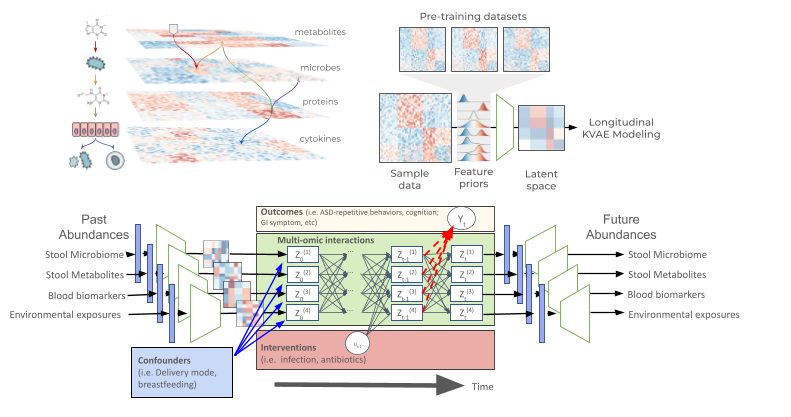
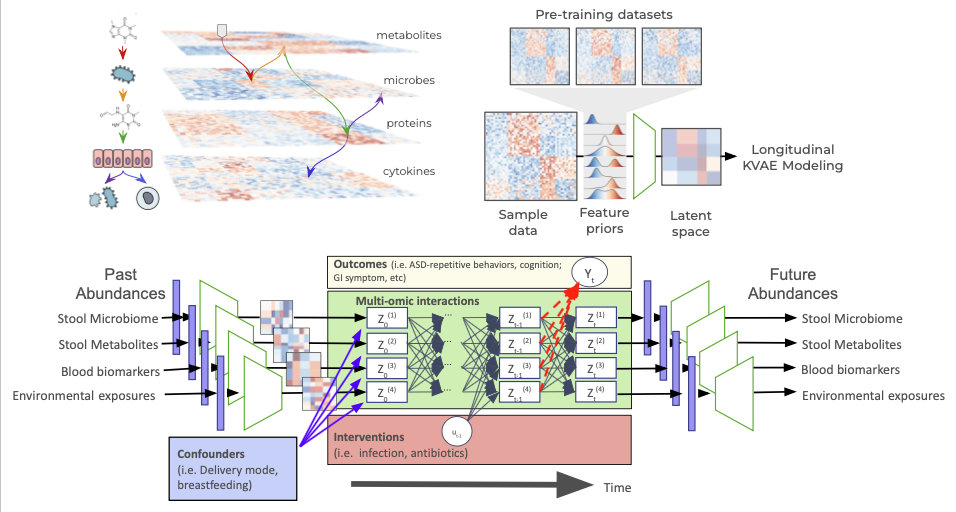
Full-width layouts for How It Works and Why Different sections
- Switch both sections from side-by-side split to full-width layout
- Add split-text class for proper font sizing (1.25rem)
- Set images to width: 100% to fill container
- Update ASD model architecture figure

diff --git a/_layouts/home-redesign.html b/_layouts/home-redesign.html
@@ -20,22 +20,18 @@ bodyClass: "page-home-new"
 
 <!-- What We're Building -->
 <section class="section-split section-light">
-  <div class="container-wide">
-    <div class="split-content">
-      <div class="split-visual">
-        <img src="/images/illustrations/how-it-works.png" alt="How it works: from home collection kit to personalized intervention" class="section-image">
-      </div>
-      <div class="split-text">
-        <h2>How It Works</h2>
-        <p>Conditions like autism affect everyone differently, which is why the same treatment can work for one person and not another. We're developing sampling kits that measure multiple aspects of your biology—your gut microbiome, metabolism, proteins, and more—to build a complete picture of what's happening inside your body.</p>
-        <p>Our AI then uses this picture to identify <strong>which subtype of a condition you have</strong> and <strong>which interventions are most likely to help your specific symptoms</strong>.</p>
-        <ul class="feature-list">
-          <li><strong>Simple sampling:</strong> Collect samples at home—no clinic visit required</li>
-          <li><strong>Complete picture:</strong> We measure across multiple biological systems, not just one</li>
-          <li><strong>Personalized insights:</strong> Understand your unique biology and what interventions may work for you</li>
-        </ul>
-      </div>
+  <div class="container-wide split-text">
+    <h2>How It Works</h2>
+    <p>Conditions like autism affect everyone differently, which is why the same treatment can work for one person and not another. We're developing sampling kits that measure multiple aspects of your biology—your gut microbiome, metabolism, proteins, and more—to build a complete picture of what's happening inside your body.</p>
+    <div style="text-align: center; margin: 3rem 0;">
+      <img src="/images/illustrations/how-it-works.png" alt="How it works: from home collection kit to personalized intervention" style="width: 100%; height: auto;">
     </div>
+    <p>Our AI then uses this picture to identify <strong>which subtype of a condition you have</strong> and <strong>which interventions are most likely to help your specific symptoms</strong>.</p>
+    <ul class="feature-list">
+      <li><strong>Simple sampling:</strong> Collect samples at home—no clinic visit required</li>
+      <li><strong>Complete picture:</strong> We measure across multiple biological systems, not just one</li>
+      <li><strong>Personalized insights:</strong> Understand your unique biology and what interventions may work for you</li>
+    </ul>
   </div>
 </section>
 
@@ -58,22 +54,18 @@ bodyClass: "page-home-new"
 
 <!-- What Makes Us Different -->
 <section class="section-split section-light">
-  <div class="container-wide">
-    <div class="split-content">
-      <div class="split-visual">
-        <img src="/images/illustrations/asd-figures.png" alt="AI model architecture for multi-omics analysis" class="section-image">
-      </div>
-      <div class="split-text">
-        <h2>Why This Approach Is Different</h2>
-        <p>Most health tests look at one thing—your DNA, or your microbiome, or a blood panel. Each gives a partial view. We combine all of them, and the result isn't just additive—it's <strong>exponentially more accurate</strong>.</p>
-        <ul class="feature-list">
-          <li><strong>Multiple biological layers, not just one:</strong> Gut microbiome, metabolites, proteins, and genetics analyzed together reveal patterns no single test can detect</li>
-          <li><strong>Changes over time, not just a snapshot:</strong> Our AI models how your biology evolves, which is critical for predicting what will help</li>
-          <li><strong>Causes, not just correlations:</strong> Most AI finds patterns that appear together. Our platform identifies which biological factors are actually <em>driving</em> symptoms—and what happens when you change them. This is what makes our predictions actionable</li>
-          <li><strong>Purpose-built technology:</strong> To make this possible, we built a new programming language from the ground up—designed specifically for constructing AI models that reason about cause-and-effect under uncertainty. This lets us coordinate specialized models across each type of biological data into a single, coherent picture</li>
-          <li><strong>Backed by published science:</strong> Our methodology has been validated in <em>Nature Neuroscience</em>, <em>Nature Methods</em>, and <em>Nature Communications</em>, and trained on over 1 million curated biological samples</li>
-        </ul>
-      </div>
+  <div class="container-wide split-text">
+    <h2>Why This Approach Is Different</h2>
+    <p>Most health tests look at one thing—your DNA, or your microbiome, or a blood panel. Each gives a partial view. We combine all of them, and the result isn't just additive—it's <strong>exponentially more accurate</strong>.</p>
+    <ul class="feature-list">
+      <li><strong>Multiple biological layers, not just one:</strong> Gut microbiome, metabolites, proteins, and genetics analyzed together reveal patterns no single test can detect</li>
+      <li><strong>Changes over time, not just a snapshot:</strong> Our AI models how your biology evolves, which is critical for predicting what will help</li>
+      <li><strong>Causes, not just correlations:</strong> Most AI finds patterns that appear together. Our platform identifies which biological factors are actually <em>driving</em> symptoms—and what happens when you change them. This is what makes our predictions actionable</li>
+      <li><strong>Purpose-built technology:</strong> To make this possible, we built a new programming language from the ground up—designed specifically for constructing AI models that reason about cause-and-effect under uncertainty. This lets us coordinate specialized models across each type of biological data into a single, coherent picture</li>
+      <li><strong>Backed by published science:</strong> Our methodology has been validated in <em>Nature Neuroscience</em>, <em>Nature Methods</em>, and <em>Nature Communications</em>, and trained on over 1 million curated biological samples</li>
+    </ul>
+    <div style="text-align: center; margin: 3rem 0;">
+      <img src="/images/illustrations/asd-figures.png" alt="AI model architecture for multi-omics analysis" style="width: 100%; height: auto;">
     </div>
   </div>
 </section>
